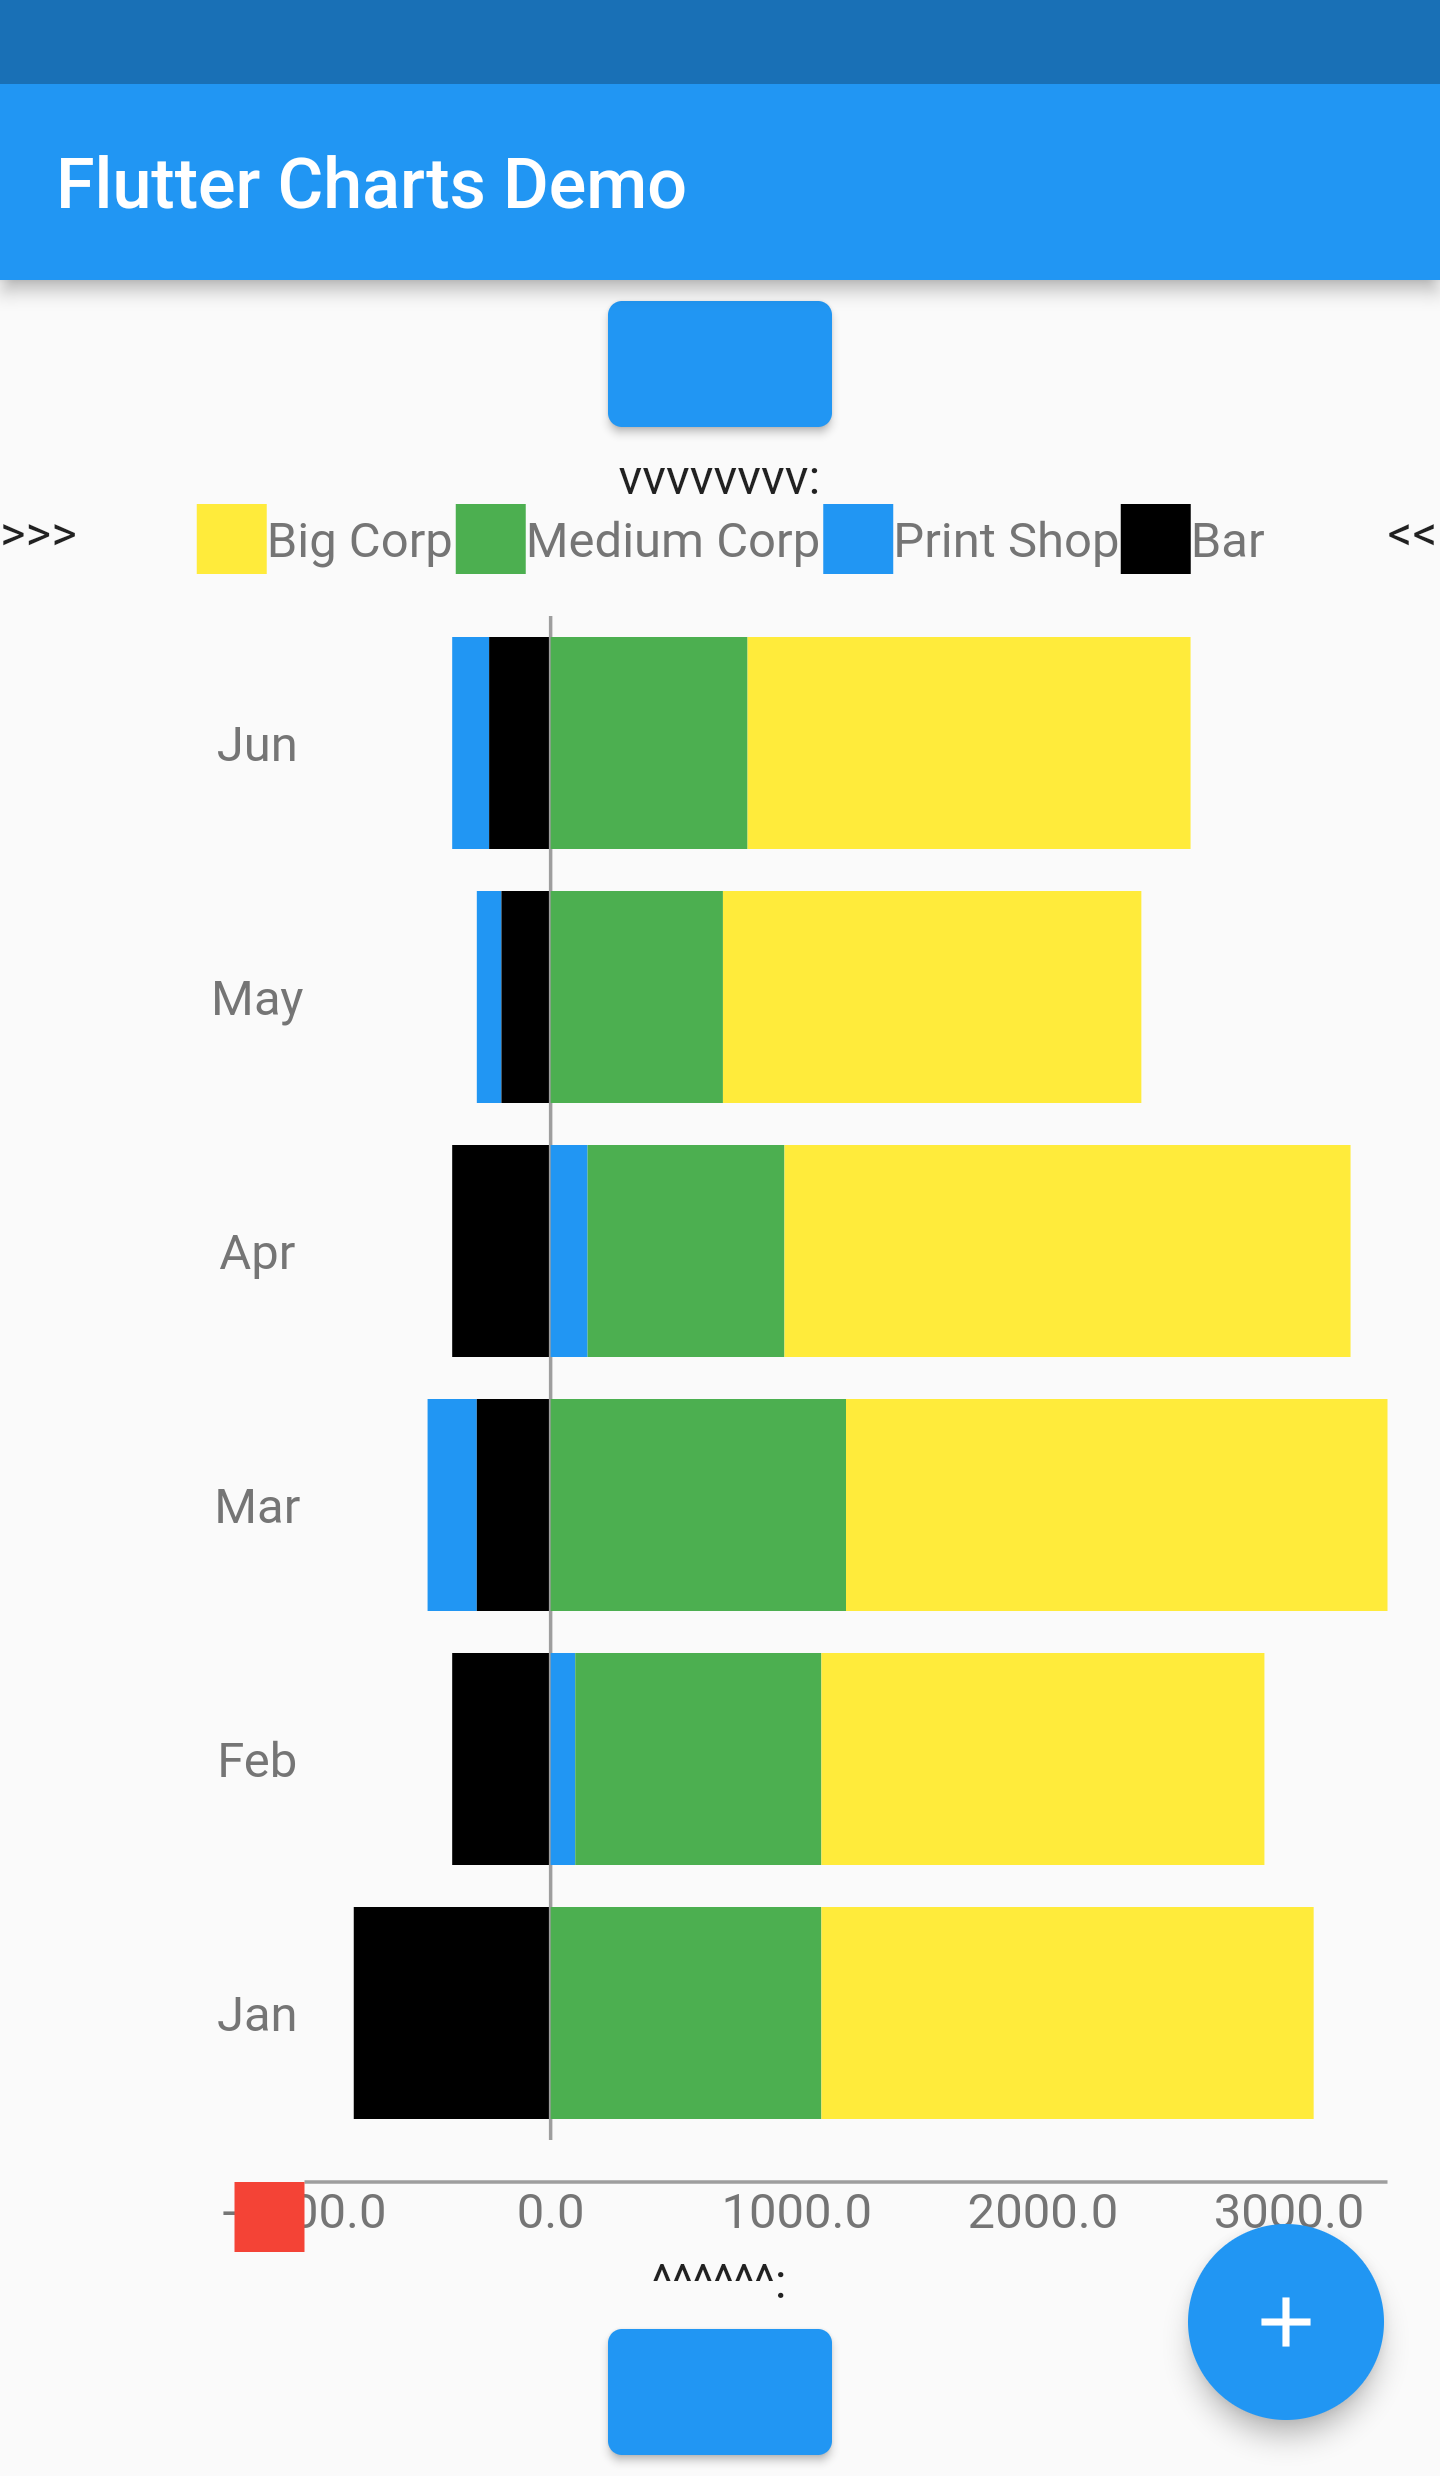
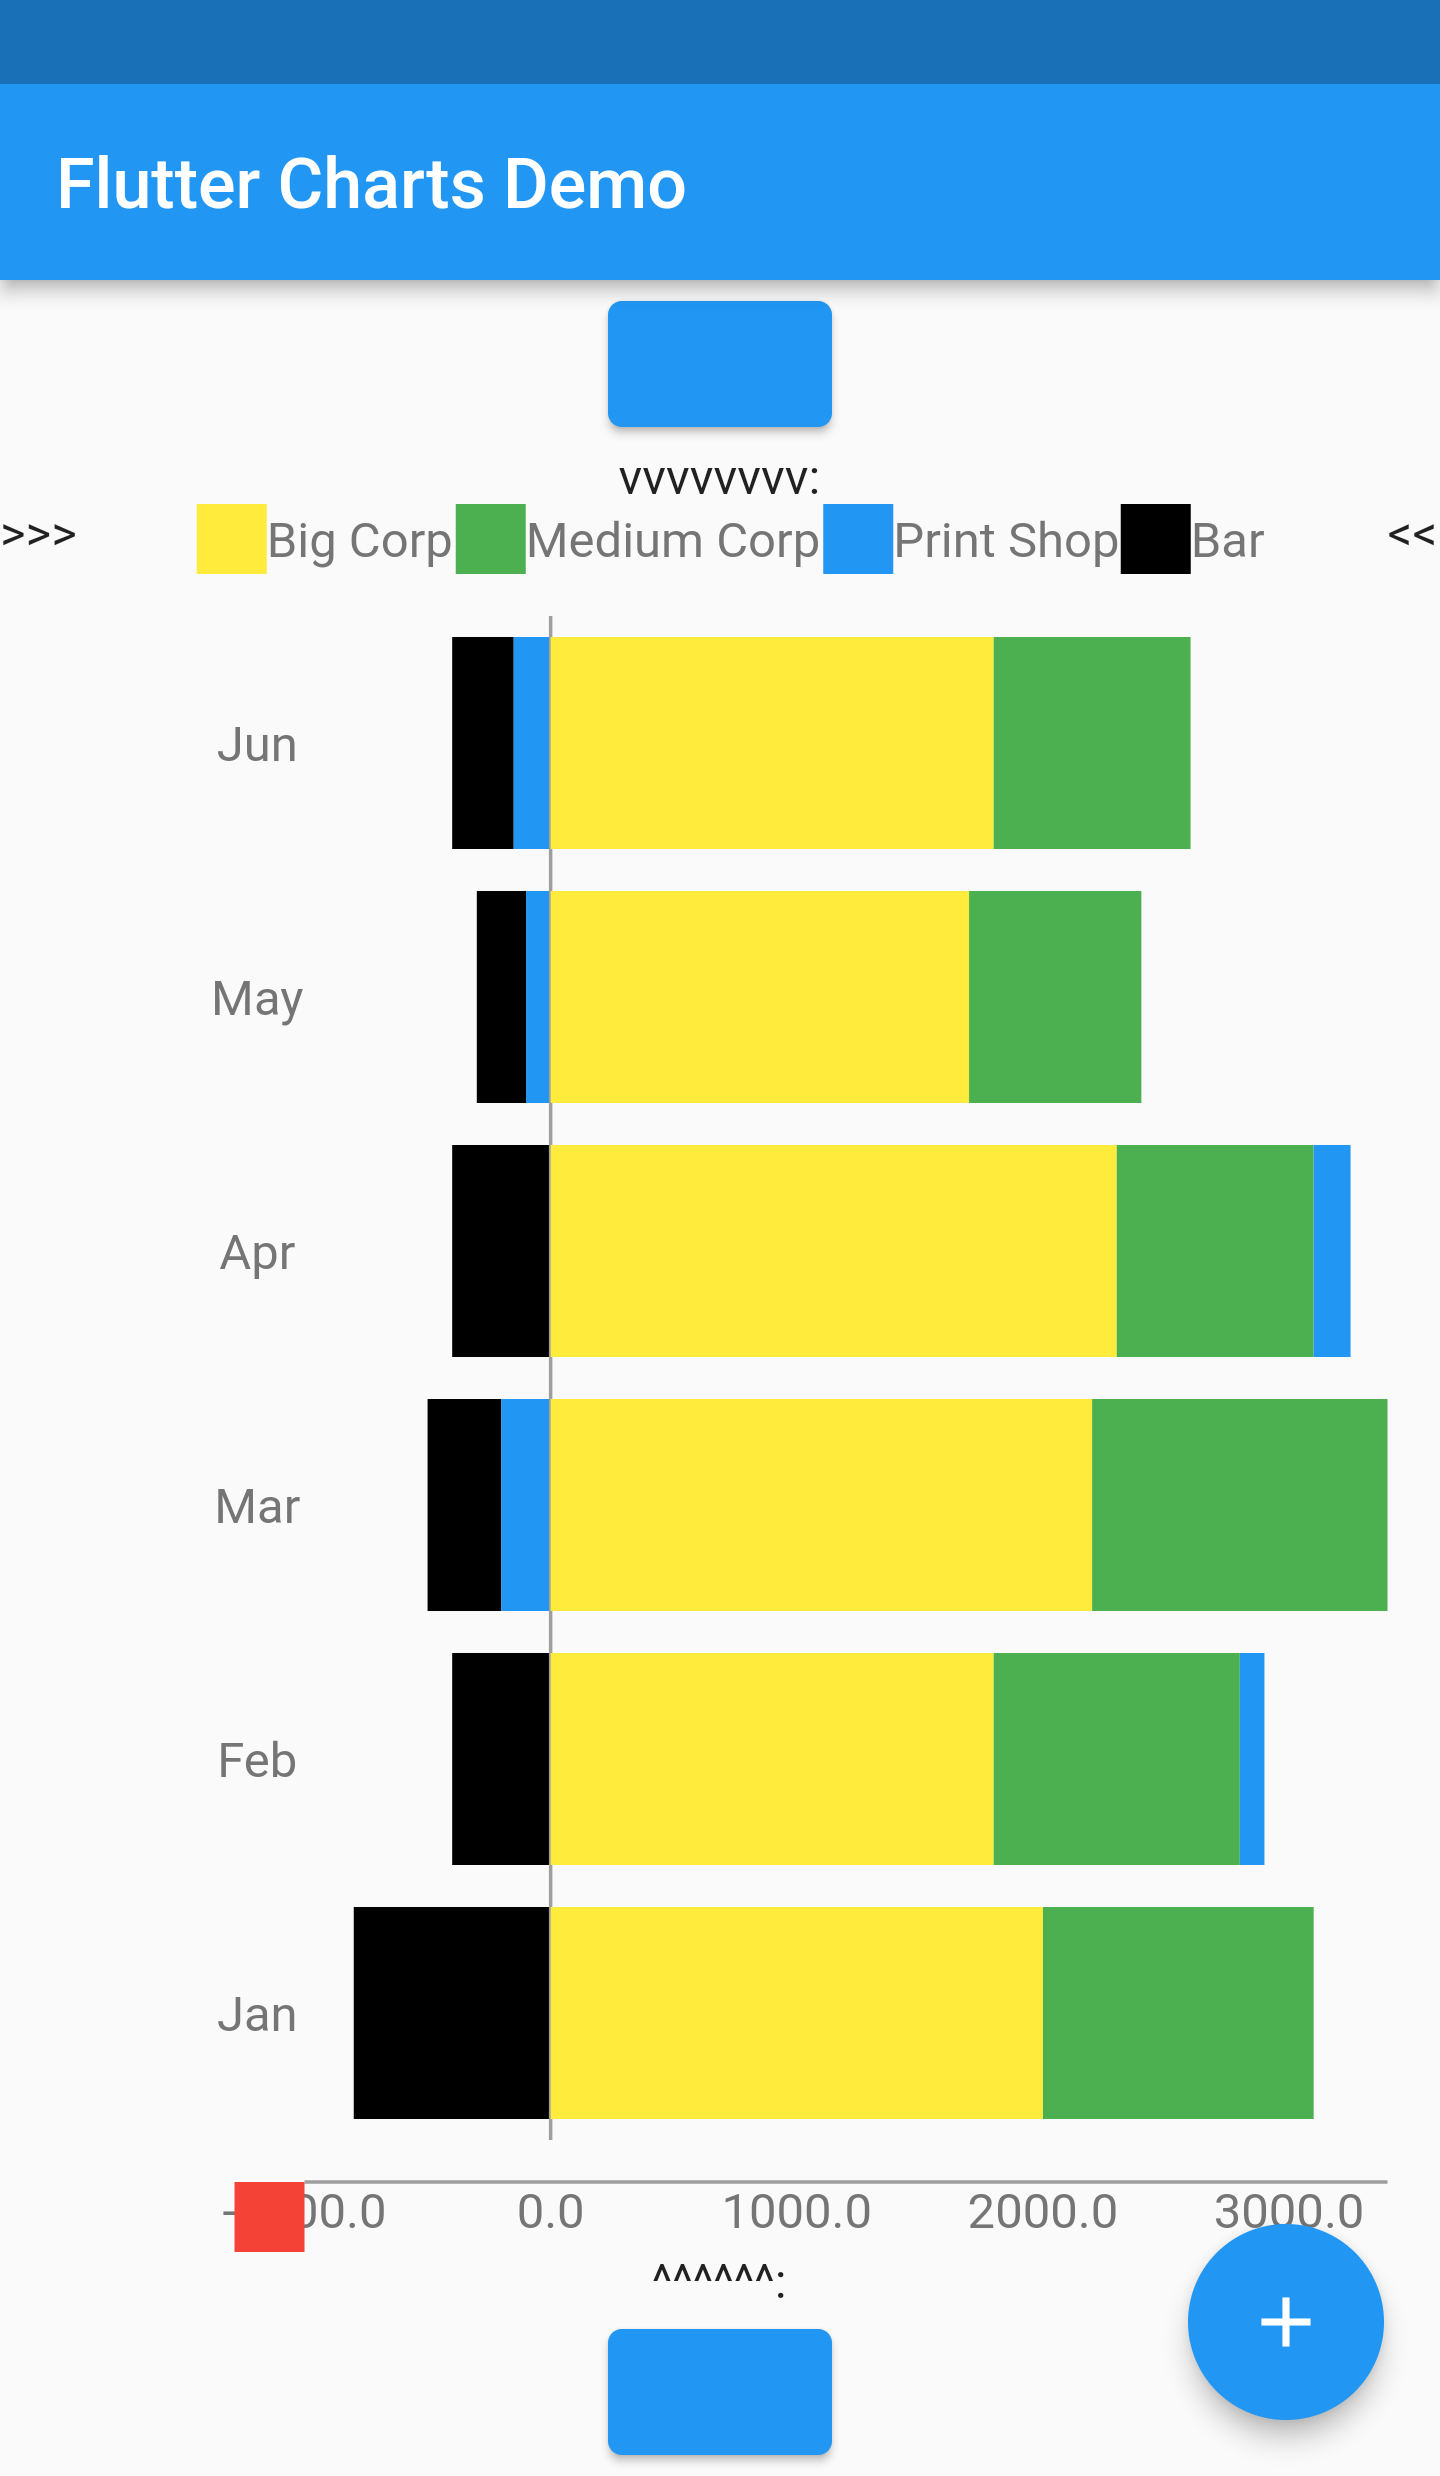
Reversed direction of stacking in each cross-series on row orientation to be left -> right, equivalent to column bottom -> top

Changed region(s): [[0.2812, 0.2488, 0.5938, 0.8708], [0.6562, 0.2488, 0.9688, 0.8708]]

diff --git a/lib/src/chart/view_maker.dart b/lib/src/chart/view_maker.dart
@@ -265,7 +265,7 @@ abstract class ChartViewMaker extends Object with container_common.ChartBehavior
 
     for (model.CrossPointsModel crossPointsModel in crossPointsModelList) {
       chartBars.add(
-        makeViewForDataContainer_Bar(
+        makeViewForDataContainer_EachBar(
           crossPointsModel: crossPointsModel,
           barsContainerMainAxisAlign: barsContainerMainAxisAlign,
           isPointsReversed: isPointsReversed,
@@ -275,7 +275,7 @@ abstract class ChartViewMaker extends Object with container_common.ChartBehavior
     return chartBars;
   }
 
-  data_container.CrossPointsContainer makeViewForDataContainer_Bar({
+  data_container.CrossPointsContainer makeViewForDataContainer_EachBar({
     required model.CrossPointsModel crossPointsModel,
     required Align barsContainerMainAxisAlign,
     required bool isPointsReversed,
@@ -284,7 +284,7 @@ abstract class ChartViewMaker extends Object with container_common.ChartBehavior
         chartViewMaker: this,
         crossPointsModel: crossPointsModel,
         children: [
-          makeViewForDataContainer_BarLayouter(
+          makeViewForDataContainer_EachBarLayouter(
               crossPointsModel: crossPointsModel,
               barsContainerMainAxisAlign: barsContainerMainAxisAlign,
               isPointsReversed: isPointsReversed),
@@ -295,7 +295,7 @@ abstract class ChartViewMaker extends Object with container_common.ChartBehavior
       );
   }
 
-  container_base.BoxContainer makeViewForDataContainer_BarLayouter({
+  container_base.BoxContainer makeViewForDataContainer_EachBarLayouter({
     required model.CrossPointsModel crossPointsModel,
     required Align barsContainerMainAxisAlign,
     required bool isPointsReversed,
@@ -319,6 +319,7 @@ abstract class ChartViewMaker extends Object with container_common.ChartBehavior
           child: pointContainer,)
     ).toList();
 
+    // In called, isPointsReversed is false for positive, true for negative
     if (isPointsReversed) {
       pointContainers = pointContainers.reversed.toList(growable: false);
     } else {
@@ -346,12 +347,12 @@ abstract class ChartViewMaker extends Object with container_common.ChartBehavior
         return container_base.Column(
           // Positive: Both Align.start and end work, . Negative: only Align.start work in column
           mainAxisAlign: barsContainerMainAxisAlign,
-          children: pointContainers,
+          children: pointContainers, // todo-00-later : pointContainers must have been reversed somewhere. should be reversed here, for first pointContainer is on bottom (last appended)
         );
       case ChartSeriesOrientation.row:
         return container_base.Row(
           mainAxisAlign: barsContainerMainAxisAlign, // otherEndAlign(barsContainerMainAxisAlign) already called
-          children: pointContainers,
+          children: pointContainers.reversed.toList(), // todo-00-later : pointContainers must have been reversed somewhere. should be UN-reversed here
         );
     }
   }

diff --git a/lib/src/chart/model/data_model.dart b/lib/src/chart/model/data_model.dart
@@ -47,6 +47,9 @@ class ChartModel {
     logger.Logger().d('Constructing ChartModel');
     validate();
 
+    // todo-00-later : 1) revert data and labels in code so they look as in chart: left -> right, bottom -> top
+    //                 2) Naturally, CrossPointsModel is then bottom -> top
+    //                 3) On points of use CrossPointsModel, transpose or un-transpose, also in parent code a few levels up.
     valuesColumns = transposeRowsToColumns(valuesRows);
 
     // Construct the full [ChartModel] as well, so we can use it, and also gradually
